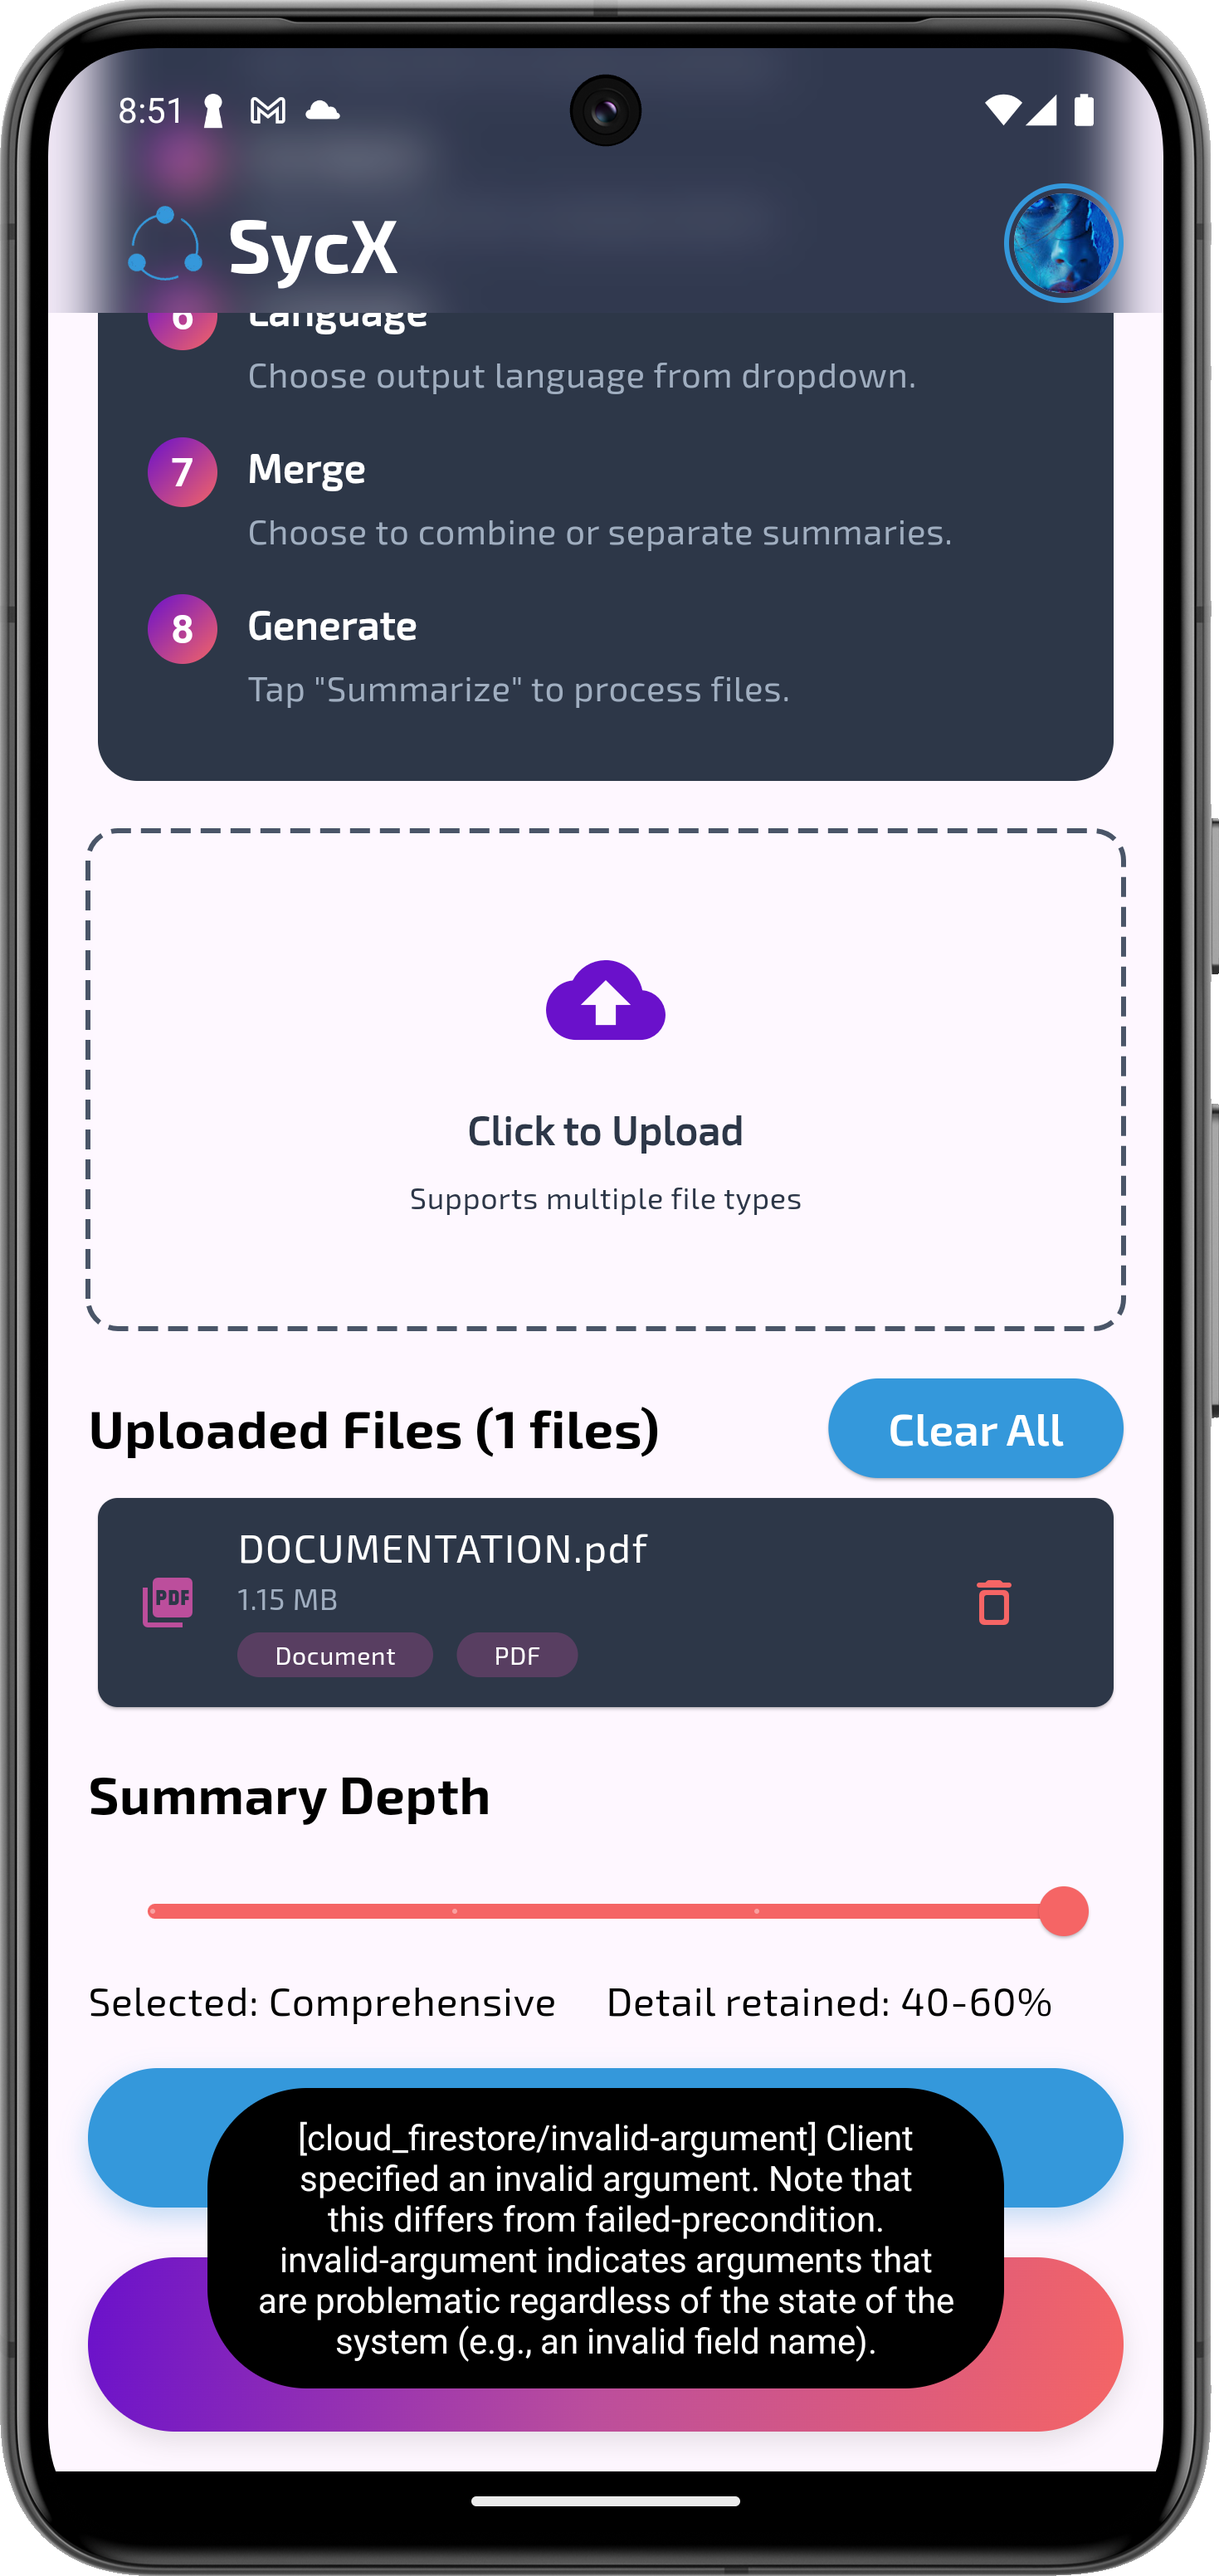
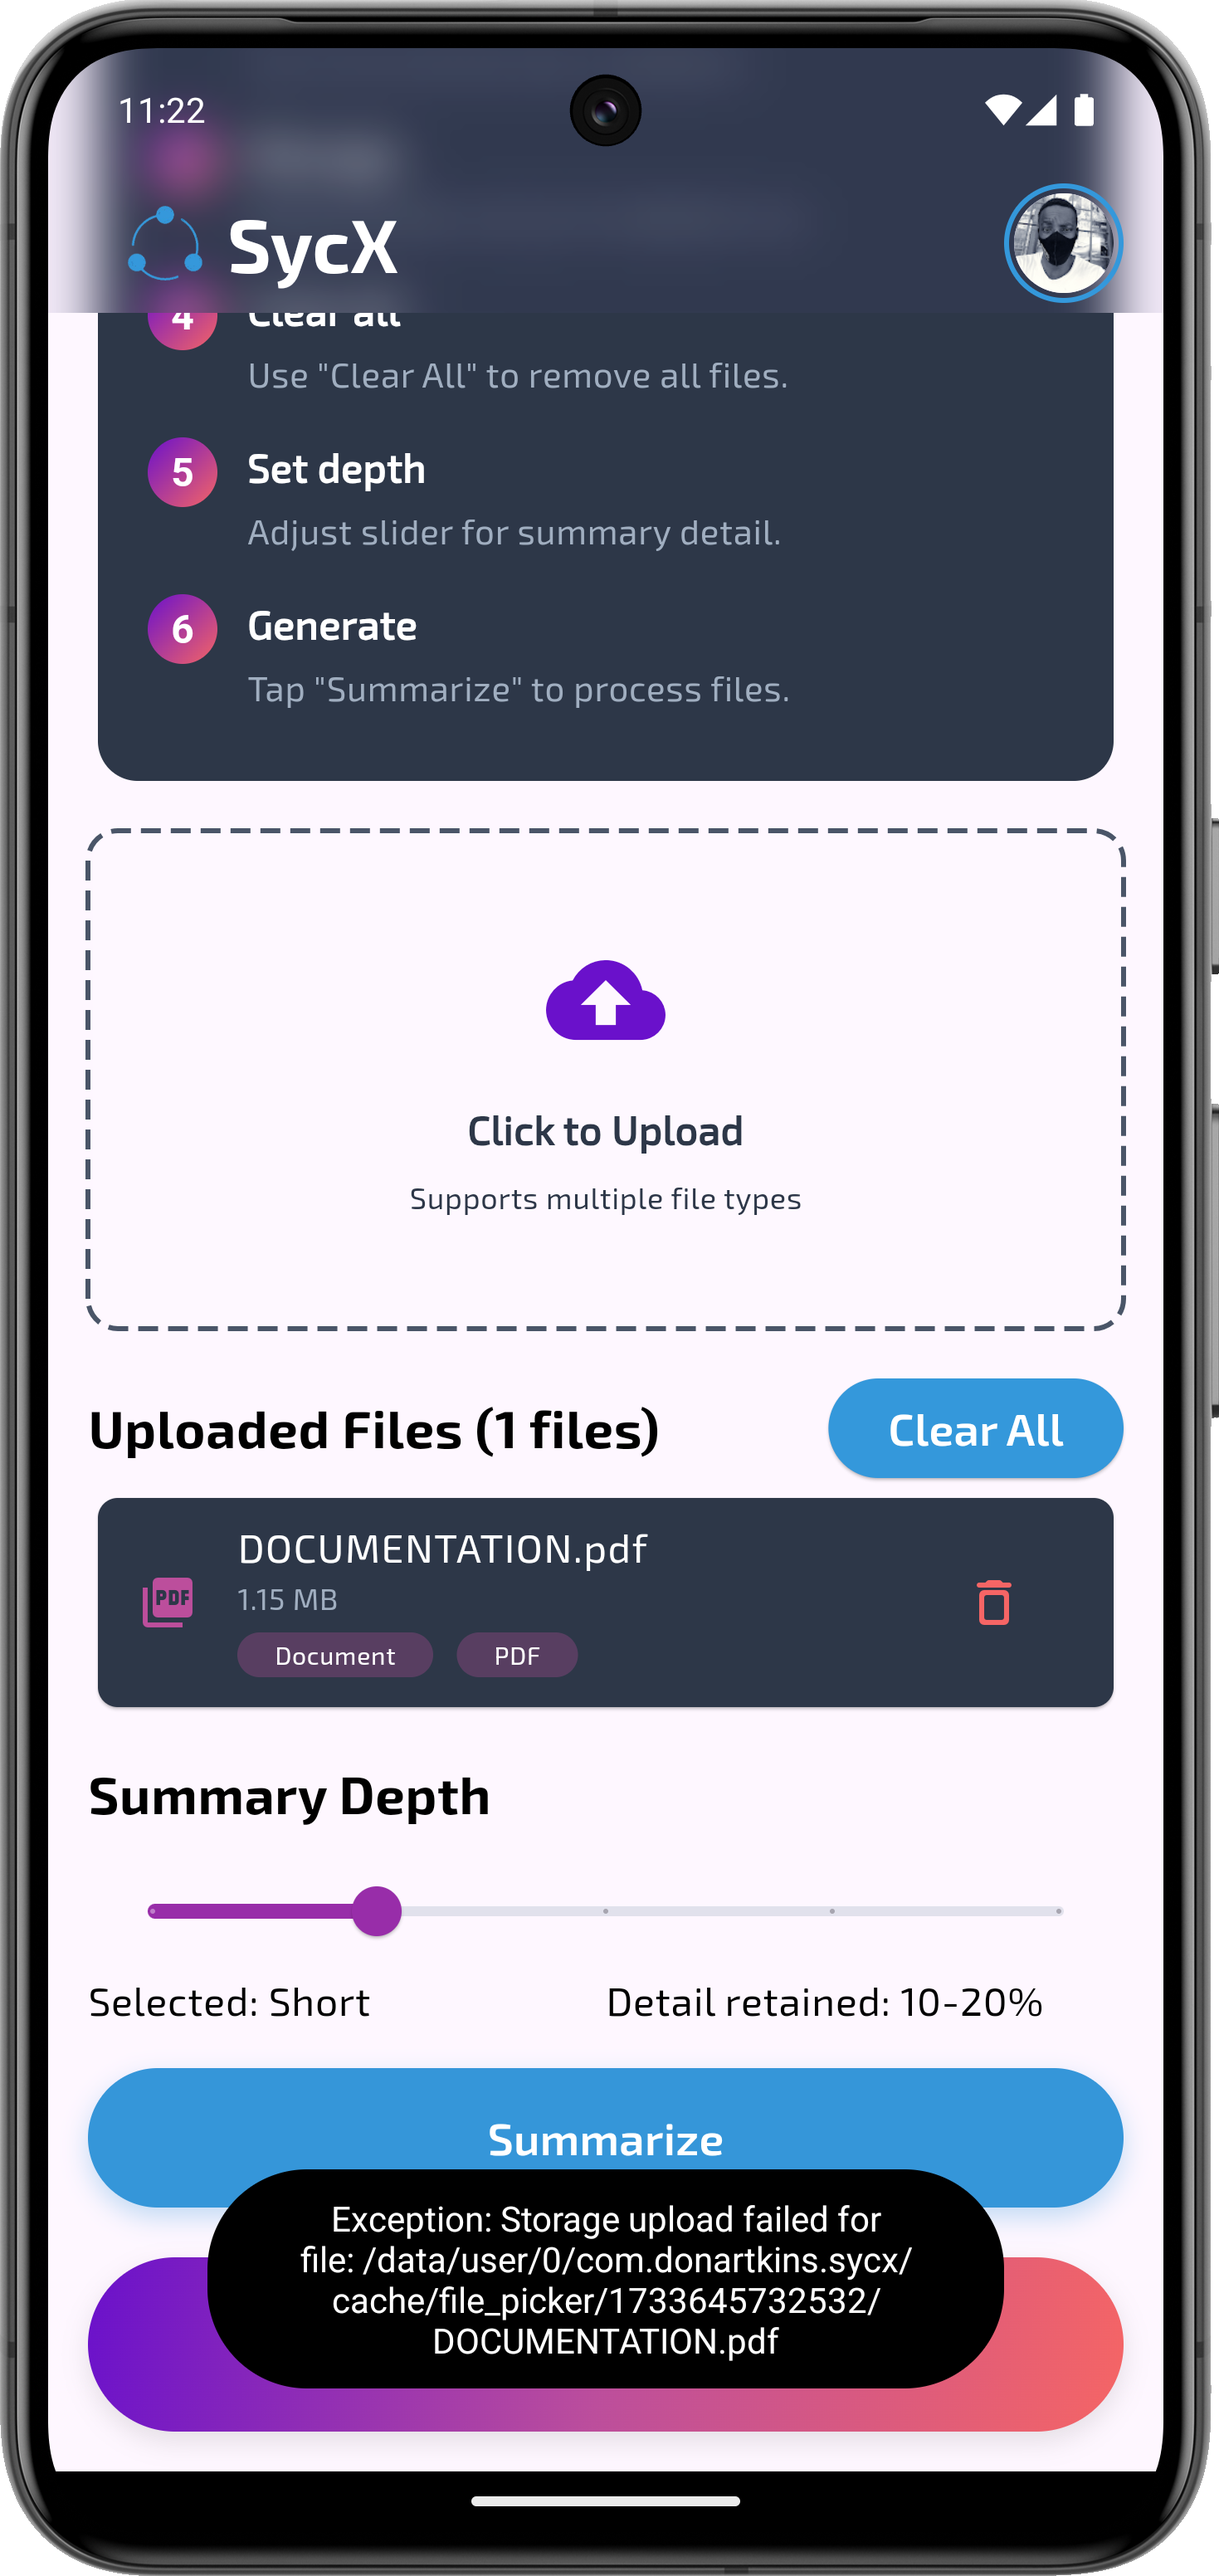
code update

diff --git a/sycx_flutter_app/macos/Flutter/GeneratedPluginRegistrant.swift b/sycx_flutter_app/macos/Flutter/GeneratedPluginRegistrant.swift
@@ -5,18 +5,21 @@
 import FlutterMacOS
 import Foundation
 
+import app_links
 import audioplayers_darwin
 import cloud_firestore
 import device_info_plus
 import file_selector_macos
 import firebase_auth
 import firebase_core
+import firebase_storage
 import flutter_image_compress_macos
 import flutter_secure_storage_macos
 import google_sign_in_ios
 import package_info_plus
 import path_provider_foundation
 import printing
+import shared_preferences_foundation
 import sign_in_with_apple
 import syncfusion_pdfviewer_macos
 import url_launcher_macos
@@ -24,18 +27,21 @@ import video_player_avfoundation
 import wakelock_plus
 
 func RegisterGeneratedPlugins(registry: FlutterPluginRegistry) {
+  AppLinksMacosPlugin.register(with: registry.registrar(forPlugin: "AppLinksMacosPlugin"))
   AudioplayersDarwinPlugin.register(with: registry.registrar(forPlugin: "AudioplayersDarwinPlugin"))
   FLTFirebaseFirestorePlugin.register(with: registry.registrar(forPlugin: "FLTFirebaseFirestorePlugin"))
   DeviceInfoPlusMacosPlugin.register(with: registry.registrar(forPlugin: "DeviceInfoPlusMacosPlugin"))
   FileSelectorPlugin.register(with: registry.registrar(forPlugin: "FileSelectorPlugin"))
   FLTFirebaseAuthPlugin.register(with: registry.registrar(forPlugin: "FLTFirebaseAuthPlugin"))
   FLTFirebaseCorePlugin.register(with: registry.registrar(forPlugin: "FLTFirebaseCorePlugin"))
+  FLTFirebaseStoragePlugin.register(with: registry.registrar(forPlugin: "FLTFirebaseStoragePlugin"))
   FlutterImageCompressMacosPlugin.register(with: registry.registrar(forPlugin: "FlutterImageCompressMacosPlugin"))
   FlutterSecureStoragePlugin.register(with: registry.registrar(forPlugin: "FlutterSecureStoragePlugin"))
   FLTGoogleSignInPlugin.register(with: registry.registrar(forPlugin: "FLTGoogleSignInPlugin"))
   FPPPackageInfoPlusPlugin.register(with: registry.registrar(forPlugin: "FPPPackageInfoPlusPlugin"))
   PathProviderPlugin.register(with: registry.registrar(forPlugin: "PathProviderPlugin"))
   PrintingPlugin.register(with: registry.registrar(forPlugin: "PrintingPlugin"))
+  SharedPreferencesPlugin.register(with: registry.registrar(forPlugin: "SharedPreferencesPlugin"))
   SignInWithApplePlugin.register(with: registry.registrar(forPlugin: "SignInWithApplePlugin"))
   SyncfusionFlutterPdfViewerPlugin.register(with: registry.registrar(forPlugin: "SyncfusionFlutterPdfViewerPlugin"))
   UrlLauncherPlugin.register(with: registry.registrar(forPlugin: "UrlLauncherPlugin"))

diff --git a/sycx_flutter_app/lib/screens/upload.dart b/sycx_flutter_app/lib/screens/upload.dart
@@ -805,8 +805,8 @@ class UploadState extends State<Upload> with TickerProviderStateMixin {
                 physics: const NeverScrollableScrollPhysics(),
                 padding: EdgeInsets.zero,
                 children: [
-                  _buildInstructionStep('1', 'Upload files',
-                      'Tap "Upload" and select documents.'),
+                  _buildInstructionStep(
+                      '1', 'Upload file', 'Tap "Upload" and select document.'),
                   _buildInstructionStep(
                       '2', 'Preview', 'Tap file cards to view contents.'),
                   _buildInstructionStep(
@@ -816,11 +816,7 @@ class UploadState extends State<Upload> with TickerProviderStateMixin {
                   _buildInstructionStep(
                       '5', 'Set depth', 'Adjust slider for summary detail.'),
                   _buildInstructionStep(
-                      '6', 'Language', 'Choose output language from dropdown.'),
-                  _buildInstructionStep(
-                      '7', 'Merge', 'Choose to combine or separate summaries.'),
-                  _buildInstructionStep(
-                      '8', 'Generate', 'Tap "Summarize" to process files.'),
+                      '6', 'Generate', 'Tap "Summarize" to process files.'),
                 ],
               ),
             ],

diff --git a/summarie.py b/summarie.py
@@ -65,14 +65,10 @@ def generate_summary(model, documents, summary_depth: float = 0.3, language: str
         with ThreadPoolExecutor(max_workers=max_workers) as executor:
             future_summaries = {}
             for i, doc in enumerate(documents):
-                # Ensure content is not None and has sufficient length
+                # Remove minimum content length check
                 content = doc.get('content', '').strip()
                 
-                # Skip empty or very short documents
-                if not content or len(content.split()) < 5:
-                    logging.warning(f"Skipping document {i+1}: Insufficient content")
-                    continue
-
+                # Proceed with summarization even for very short content
                 future = executor.submit(
                     _safe_generate_summary, 
                     model, 
@@ -91,11 +87,11 @@ def generate_summary(model, documents, summary_depth: float = 0.3, language: str
                     doc_summary = future.result()
                     metadata = future_summaries[future]
                     
-                    if doc_summary:
-                        summary.append({
-                            'title': metadata['title'],
-                            'content': doc_summary
-                        })
+                    # Always add summary, even if it's just the original content
+                    summary.append({
+                        'title': metadata['title'],
+                        'content': doc_summary
+                    })
                 except Exception as e:
                     logging.error(f"Error processing document: {str(e)}")
 
@@ -109,7 +105,7 @@ def generate_summary(model, documents, summary_depth: float = 0.3, language: str
 
 def _safe_generate_summary(model, content, summary_depth, doc_name):
     """
-    Safely generate summary with fallback mechanisms.
+    Safely generate summary with enhanced fallback mechanisms.
     
     Args:
         model: Summarization model
@@ -118,22 +114,27 @@ def _safe_generate_summary(model, content, summary_depth, doc_name):
         doc_name (str): Name of the document for logging
     
     Returns:
-        str: Generated summary or original content if summarization fails
+        str: Generated summary or original content if summarization is impossible
     """
     try:
         # Limit content length to prevent excessive processing
         max_content_length = 100000
         truncated_content = content[:max_content_length]
         
+        # If content is very short, use entire content
+        if len(truncated_content.strip()) < 10:
+            logging.info(f"Very short content for {doc_name}. Using entire content.")
+            return truncated_content
+        
         # Attempt summarization with fallback
         summary = model.generate_summary(truncated_content, summary_depth)
         
-        # Validate summary
-        if not summary or len(summary.strip()) < 10:
-            logging.warning(f"Generated summary too short for {doc_name}. Using original content.")
+        # If no summary generated, use original content
+        if not summary or len(summary.strip()) == 0:
+            logging.warning(f"No summary generated for {doc_name}. Using original content.")
             return truncated_content
         
         return summary
     except Exception as e:
         logging.error(f"Summary generation error for {doc_name}: {str(e)}")
-        return content  # Return original content if summarization fails
+        return content  # Guaranteed fallback to original content

diff --git a/model copy.py b/model copy.py
@@ -241,19 +241,16 @@ class SummarizationModel:
         """
         input_length = len(text.split())
         max_length_ratio = min(summary_depth, 0.4)
-        min_length_ratio = min(max_length_ratio * 0.5, 0.1)  # Ensure min_length is less than max_length
+        min_length_ratio = max(summary_depth * 0.3, 0.1)
 
         max_length = max(int(input_length * max_length_ratio), 5)
         min_length = max(int(input_length * min_length_ratio), 1)
-
-        # Ensure min_length is always less than max_length
-        min_length = min(min_length, max_length - 1)
 
         return max_length, min_length
 
     def generate_summary(self, text: str, summary_depth: float = 1.0) -> str:
         """
-        Generate summary with improved handling of short inputs and length constraints.
+        Generate summary with improved handling of short inputs.
         
         Args:
             text (str): Input text to summarize
@@ -266,36 +263,23 @@ class SummarizationModel:
             # Clean and preprocess the input text
             cleaned_text = self.preprocess_text(text)
 
-            # Handle very short inputs
-            if len(cleaned_text.split()) <= 10:
-                return cleaned_text
-
             # Compute dynamic length parameters based on input text
             max_length, min_length = self.optimize_length_params(cleaned_text, summary_depth)
 
-            # Additional safety check
-            if min_length >= max_length:
-                min_length = max(1, max_length // 2)
-
             # Generate the summary
-            try:
-                summary_result = self.summarizer(
-                    cleaned_text,
-                    max_length=max_length,
-                    min_length=min_length,
-                    num_beams=4,
-                    length_penalty=1.0
-                )
+            summary_result = self.summarizer(
+                cleaned_text,
+                max_length=max_length,
+                min_length=min_length,
+                num_beams=4,
+                length_penalty=1.0
+            )
 
-                if summary_result and isinstance(summary_result, list) and summary_result:
-                    summary_text = summary_result[0].get('summary_text', '')
-                    return summary_text if summary_text else cleaned_text
-                else:
-                    return cleaned_text
-            except Exception as e:
-                logging.error(f"Summarization pipeline error: {str(e)}")
+            if summary_result and isinstance(summary_result, list) and summary_result:
+                summary_text = summary_result[0].get('summary_text', '')
+                return summary_text if summary_text else cleaned_text
+            else:
                 return cleaned_text
-
         except Exception as e:
             logging.error(f"Error in generate_summary: {str(e)}")
             return cleaned_text

diff --git a/sycx_flutter_app/windows/flutter/generated_plugin_registrant.cc b/sycx_flutter_app/windows/flutter/generated_plugin_registrant.cc
@@ -6,11 +6,13 @@
 
 #include "generated_plugin_registrant.h"
 
+#include <app_links/app_links_plugin_c_api.h>
 #include <audioplayers_windows/audioplayers_windows_plugin.h>
 #include <cloud_firestore/cloud_firestore_plugin_c_api.h>
 #include <file_selector_windows/file_selector_windows.h>
 #include <firebase_auth/firebase_auth_plugin_c_api.h>
 #include <firebase_core/firebase_core_plugin_c_api.h>
+#include <firebase_storage/firebase_storage_plugin_c_api.h>
 #include <flutter_secure_storage_windows/flutter_secure_storage_windows_plugin.h>
 #include <permission_handler_windows/permission_handler_windows_plugin.h>
 #include <printing/printing_plugin.h>
@@ -18,6 +20,8 @@
 #include <url_launcher_windows/url_launcher_windows.h>
 
 void RegisterPlugins(flutter::PluginRegistry* registry) {
+  AppLinksPluginCApiRegisterWithRegistrar(
+      registry->GetRegistrarForPlugin("AppLinksPluginCApi"));
   AudioplayersWindowsPluginRegisterWithRegistrar(
       registry->GetRegistrarForPlugin("AudioplayersWindowsPlugin"));
   CloudFirestorePluginCApiRegisterWithRegistrar(
@@ -28,6 +32,8 @@ void RegisterPlugins(flutter::PluginRegistry* registry) {
       registry->GetRegistrarForPlugin("FirebaseAuthPluginCApi"));
   FirebaseCorePluginCApiRegisterWithRegistrar(
       registry->GetRegistrarForPlugin("FirebaseCorePluginCApi"));
+  FirebaseStoragePluginCApiRegisterWithRegistrar(
+      registry->GetRegistrarForPlugin("FirebaseStoragePluginCApi"));
   FlutterSecureStorageWindowsPluginRegisterWithRegistrar(
       registry->GetRegistrarForPlugin("FlutterSecureStorageWindowsPlugin"));
   PermissionHandlerWindowsPluginRegisterWithRegistrar(

diff --git a/sycx_flutter_app/linux/flutter/generated_plugin_registrant.cc b/sycx_flutter_app/linux/flutter/generated_plugin_registrant.cc
@@ -9,6 +9,7 @@
 #include <audioplayers_linux/audioplayers_linux_plugin.h>
 #include <file_selector_linux/file_selector_plugin.h>
 #include <flutter_secure_storage_linux/flutter_secure_storage_linux_plugin.h>
+#include <gtk/gtk_plugin.h>
 #include <printing/printing_plugin.h>
 #include <url_launcher_linux/url_launcher_plugin.h>
 
@@ -22,6 +23,9 @@ void fl_register_plugins(FlPluginRegistry* registry) {
   g_autoptr(FlPluginRegistrar) flutter_secure_storage_linux_registrar =
       fl_plugin_registry_get_registrar_for_plugin(registry, "FlutterSecureStorageLinuxPlugin");
   flutter_secure_storage_linux_plugin_register_with_registrar(flutter_secure_storage_linux_registrar);
+  g_autoptr(FlPluginRegistrar) gtk_registrar =
+      fl_plugin_registry_get_registrar_for_plugin(registry, "GtkPlugin");
+  gtk_plugin_register_with_registrar(gtk_registrar);
   g_autoptr(FlPluginRegistrar) printing_registrar =
       fl_plugin_registry_get_registrar_for_plugin(registry, "PrintingPlugin");
   printing_plugin_register_with_registrar(printing_registrar);
